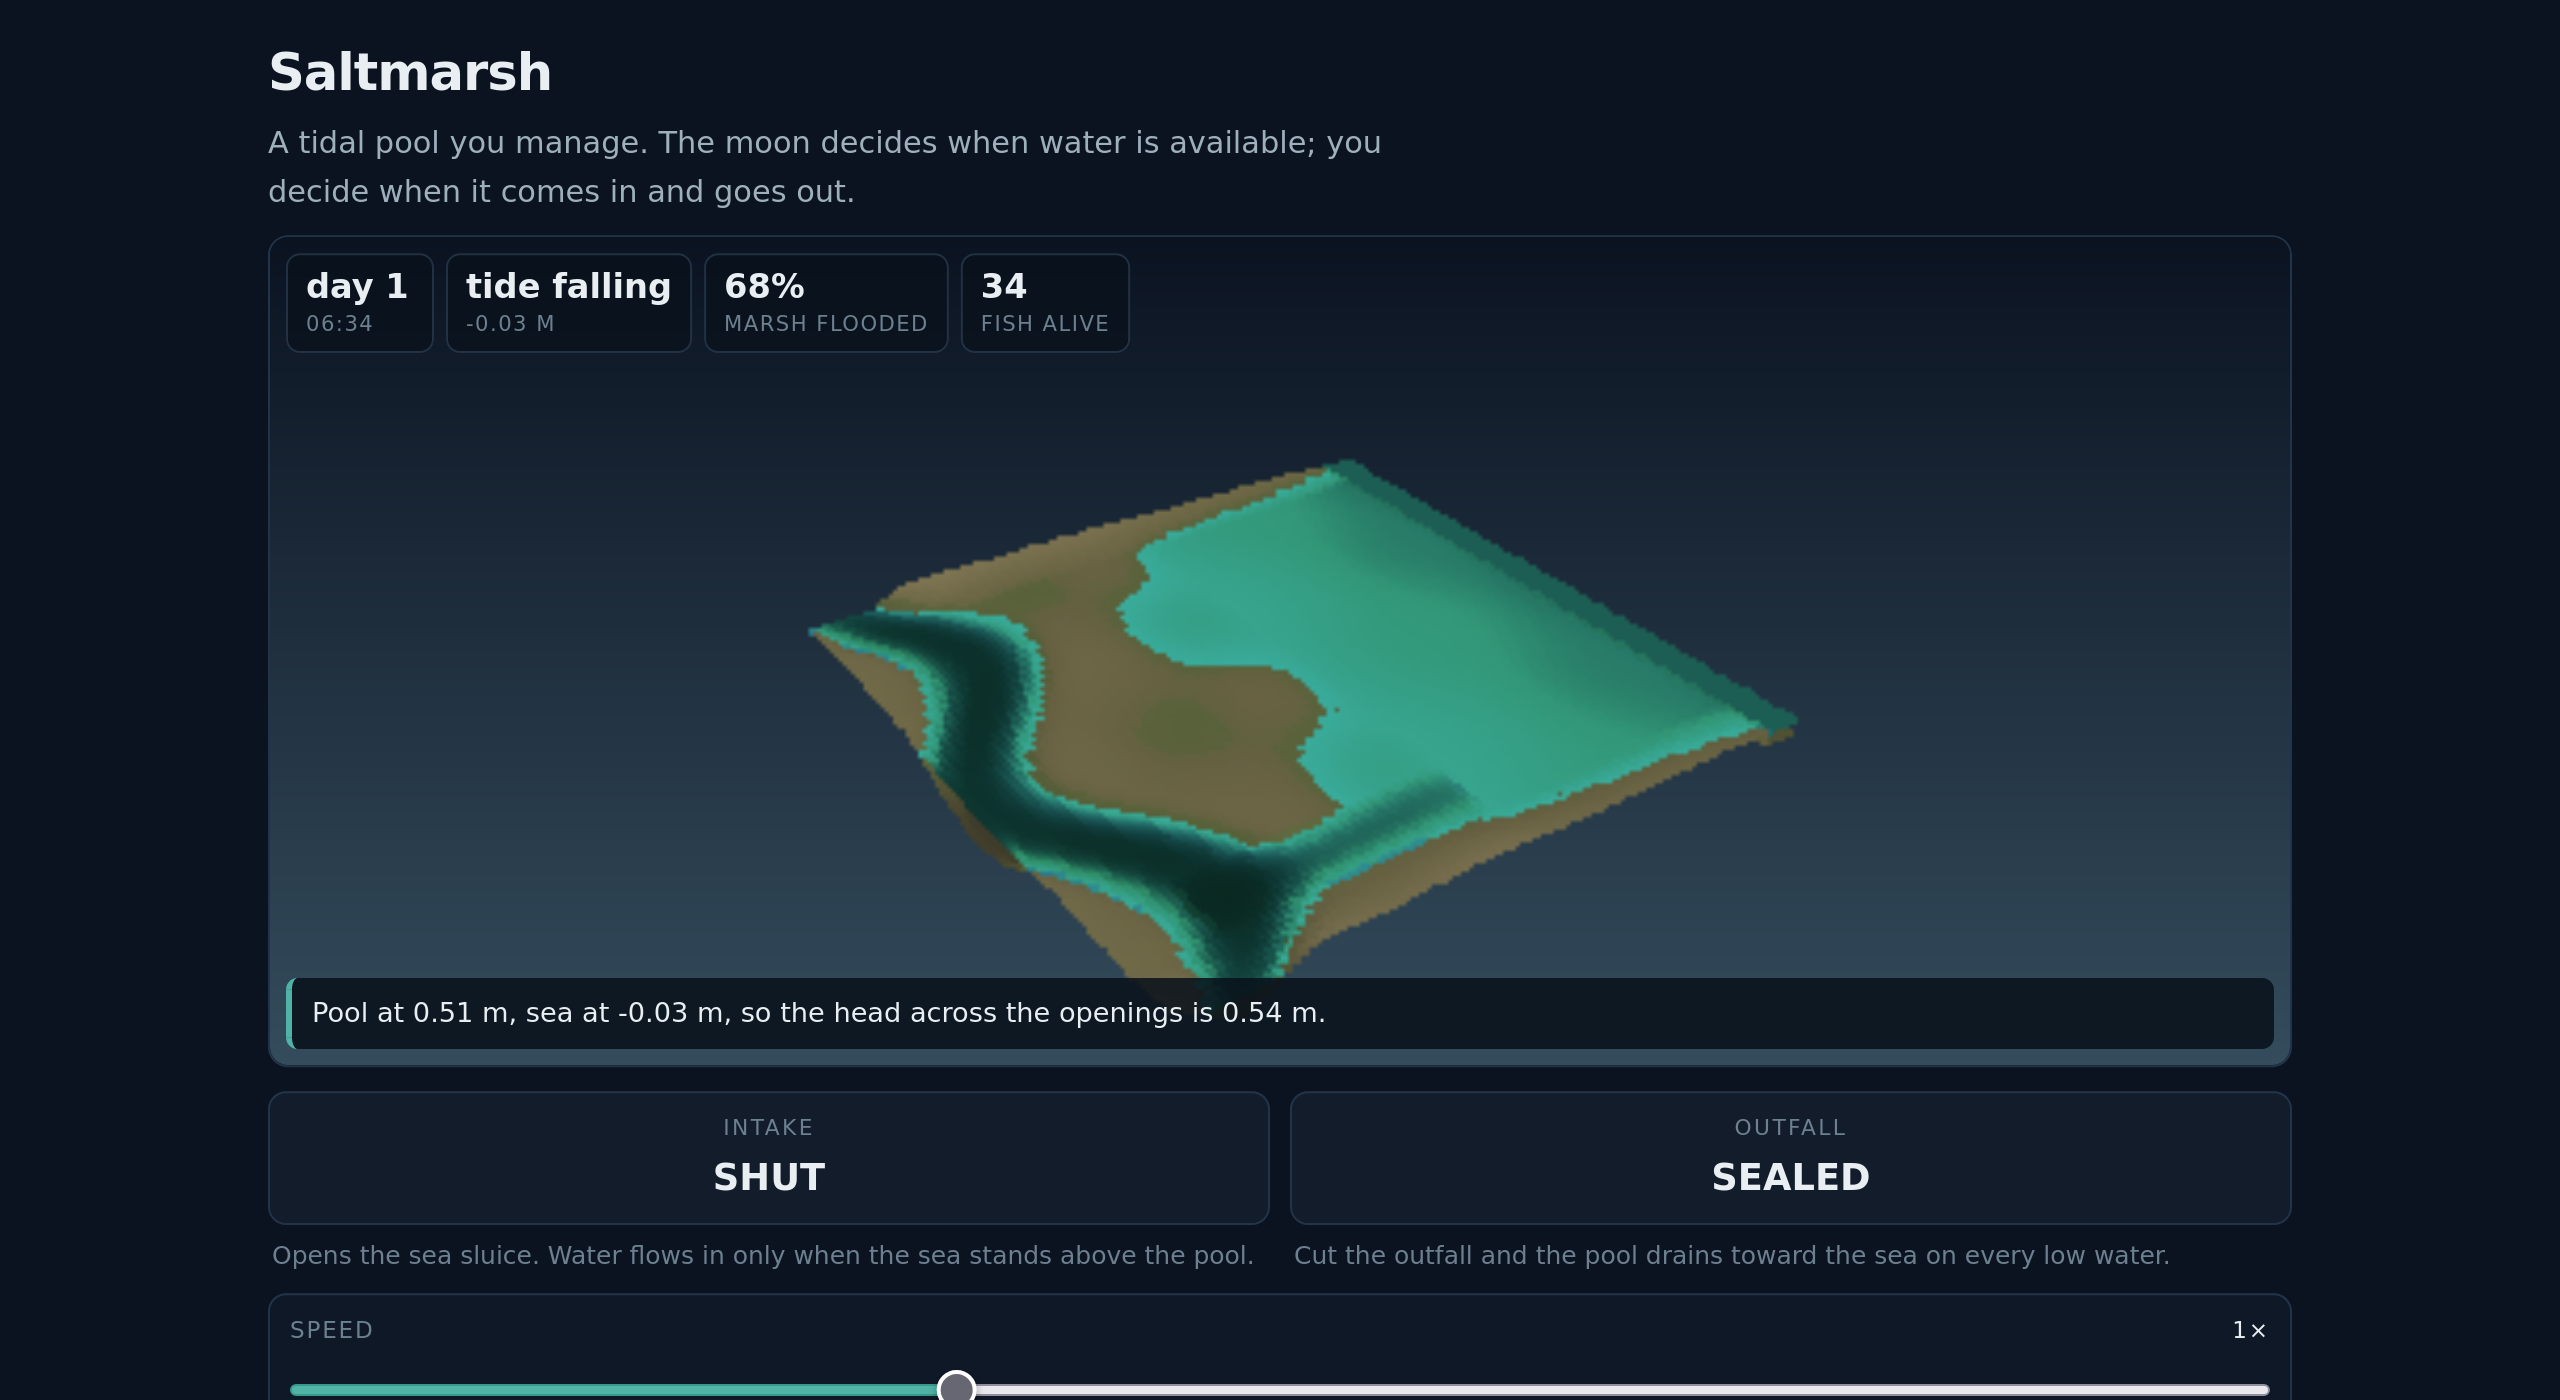
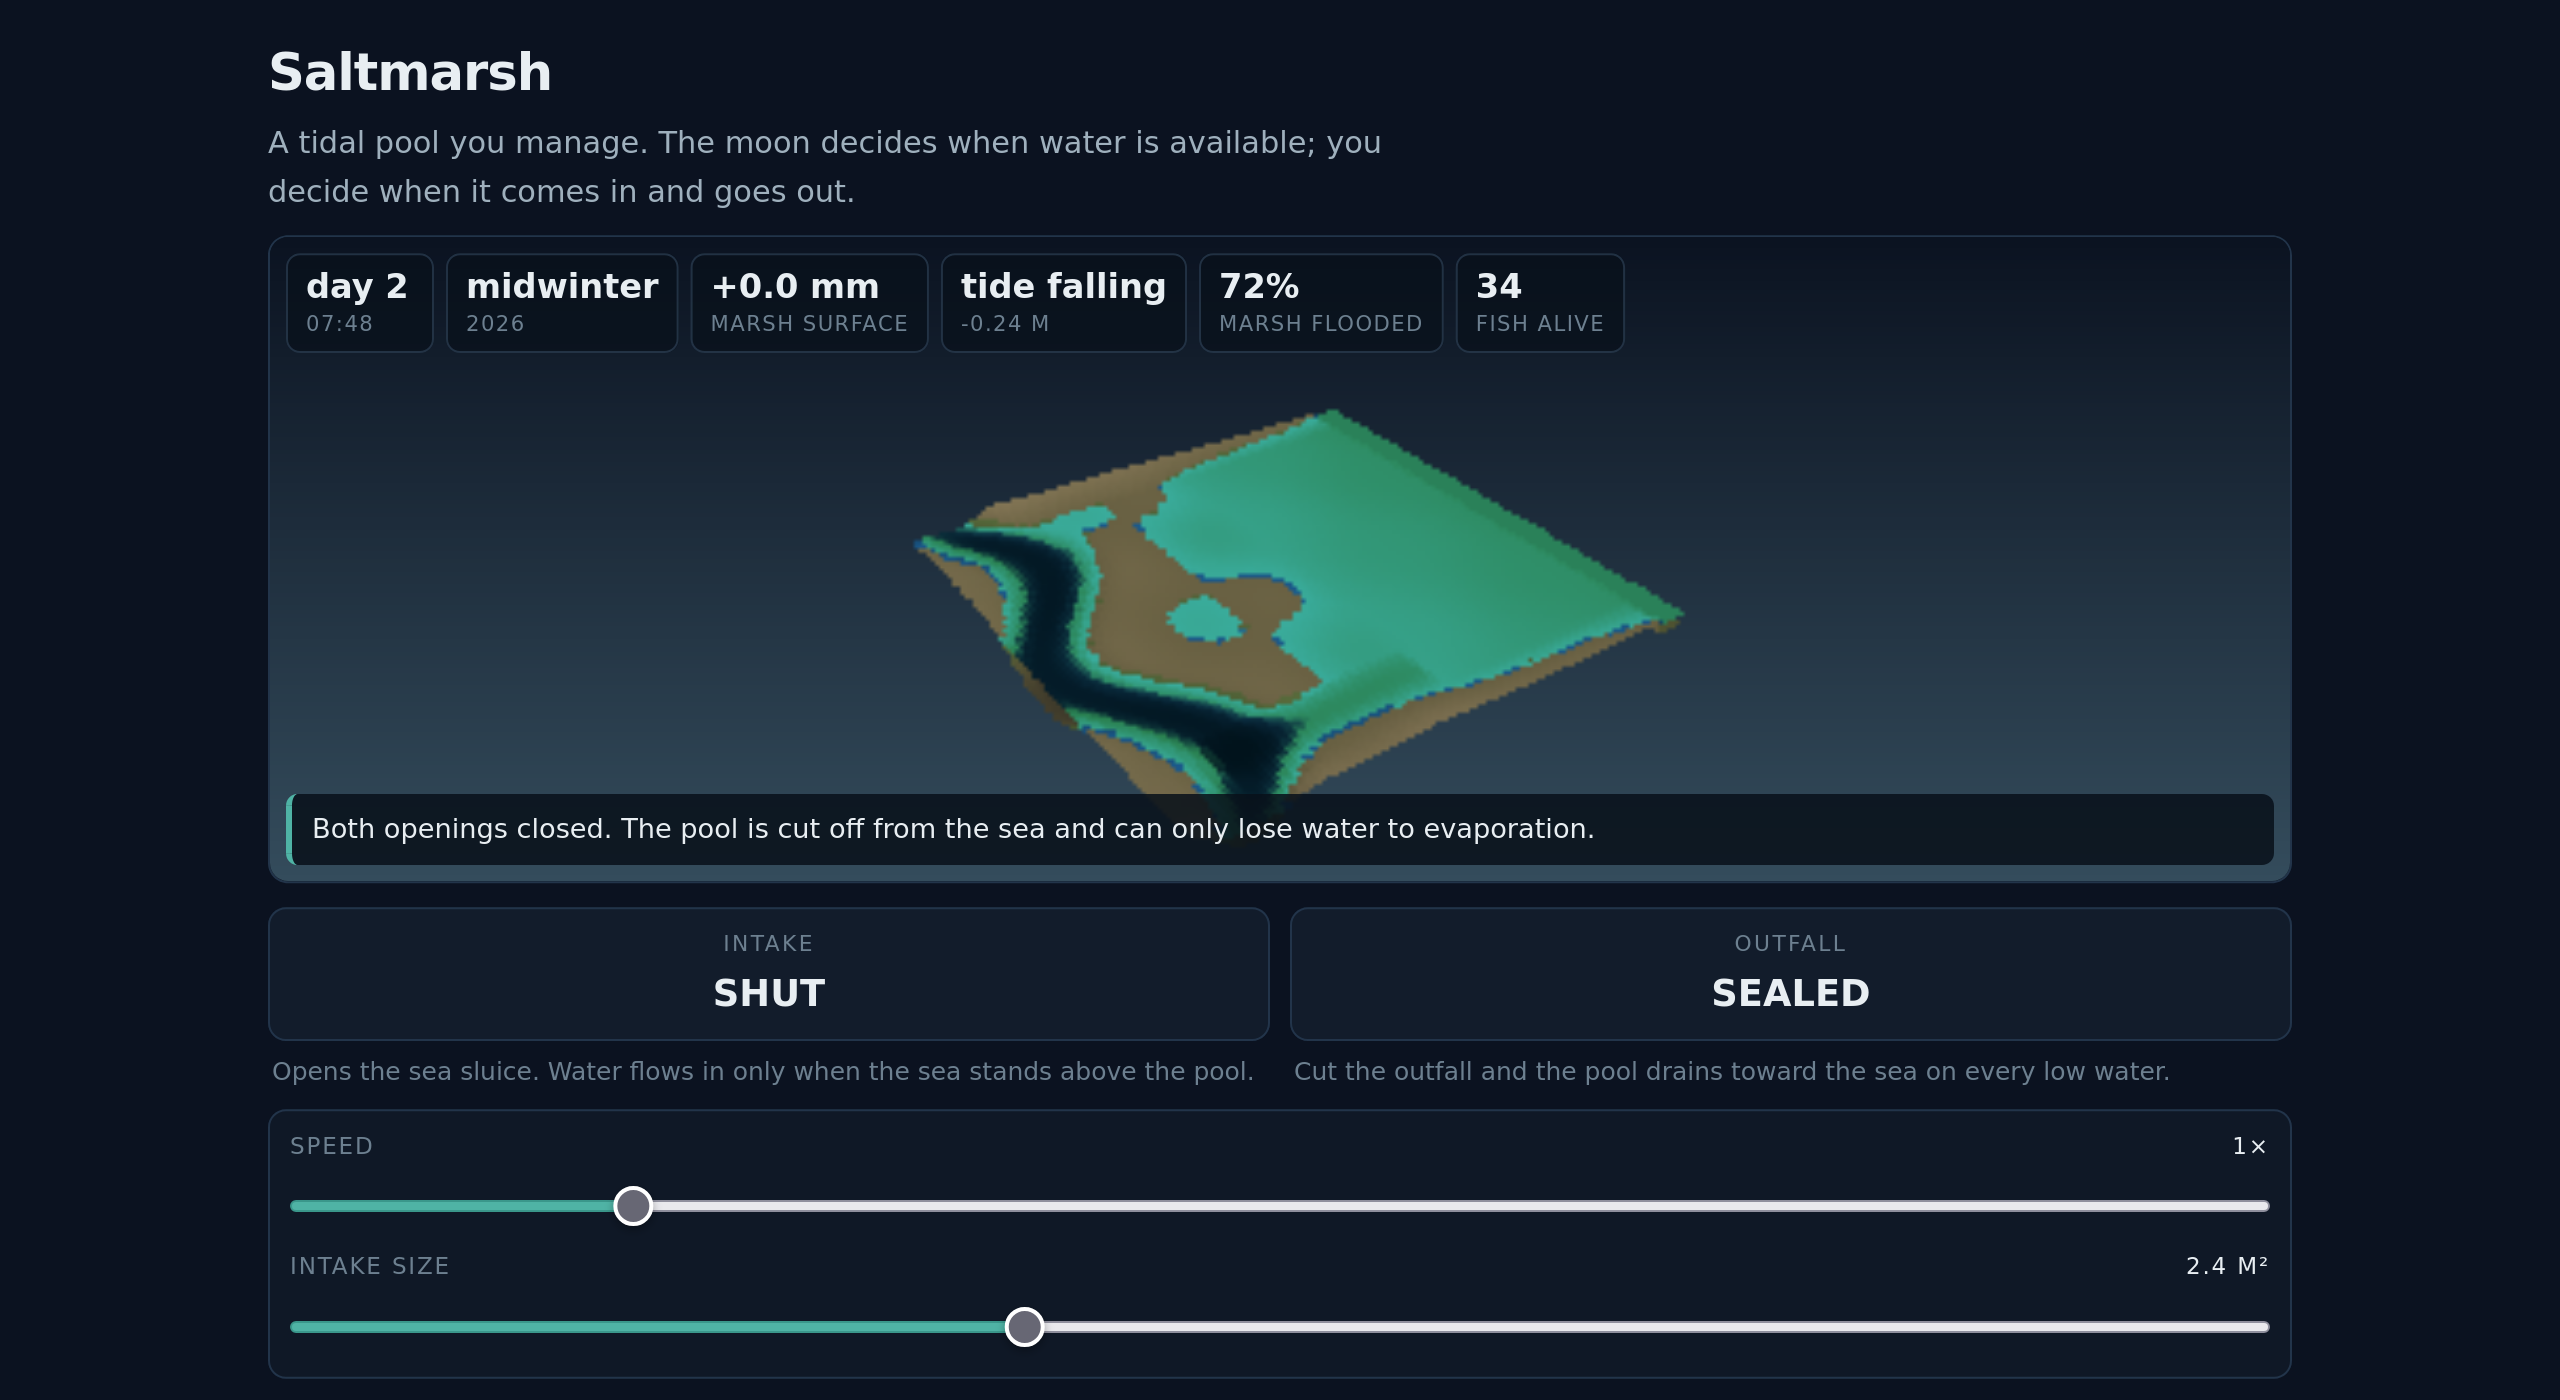
saltmarsh: document the year, and refresh the screenshots
The README had no annual cycle to describe and its speed table stopped at 12x. Adds the seasons, the rain/evaporation balance, and what sediment does to the marsh surface, with the measured annual figures stated next to the behaviour they produce. Both screenshots re-captured at their existing resolutions so the front-page card shows the HUD it will actually show.

diff --git a/README.md b/README.md
@@ -66,10 +66,35 @@ Every death is recorded by the model itself as a stranding event, at a depth bel
 | buttons | toggle INTAKE / OUTFALL |
 | drag | rotate the view |
 | pinch / scroll | zoom |
-| Speed slider | pause, 1×, 4×, 12× |
+| Speed slider | pause, 1×, 4×, 12×, 24×, 72×, 168× |
 | Intake size | 0.3–6 m² |
 
 Works with touch; portrait and landscape both lay out without clipping.
+
+## The year
+
+The clock runs through a 365-day year, and one number — the season — drives three
+things at once: how far a shallow flat warms above the sea, the rain rate, and the
+label in the header. In summer the marsh is warm and productive, so fish push far
+onto the flat and the stranding risk is at its highest; in winter the warmth
+incentive almost vanishes and they hold the channel. **The same sluice operation is
+a different decision depending on the month**, which is what turns a timing puzzle
+into management.
+
+Rain (~640 mm/yr) and evaporation (~666 mm/yr) nearly cancel over a year, so a
+sealed marsh neither fills forever nor dries out instantly — it can be managed
+down, and the season decides how fast.
+
+Sediment makes the marsh surface itself a record of your water management.
+Regularly flooded cells build up toward ~9 mm/yr, fastest where the water is a
+5–20 cm sheet, which is the real feedback in a grazing marsh: flooding builds a
+flat, a shallower flat floods more gently, and builds more. A cell left dry for
+more than about two weeks starts losing elevation instead. The header shows the
+mean change in millimetres.
+
+At 168× (one simulated day per second) a year passes in six minutes, so the
+seasons and the marsh surface are things you can watch rather than facts of the
+model. At 1× a year is ten real days.
 
 ## Building and testing
 
